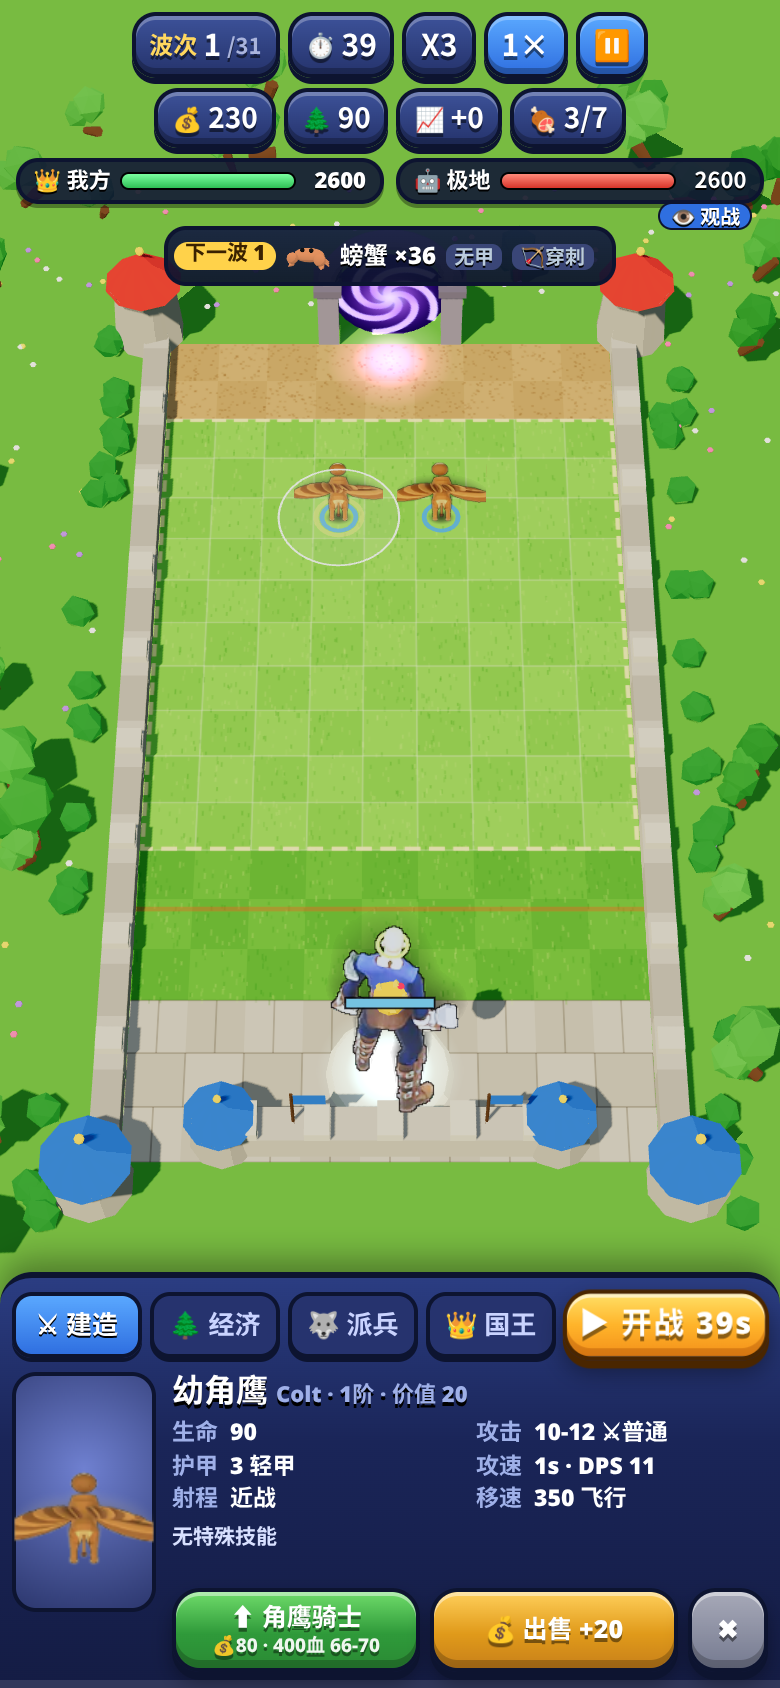
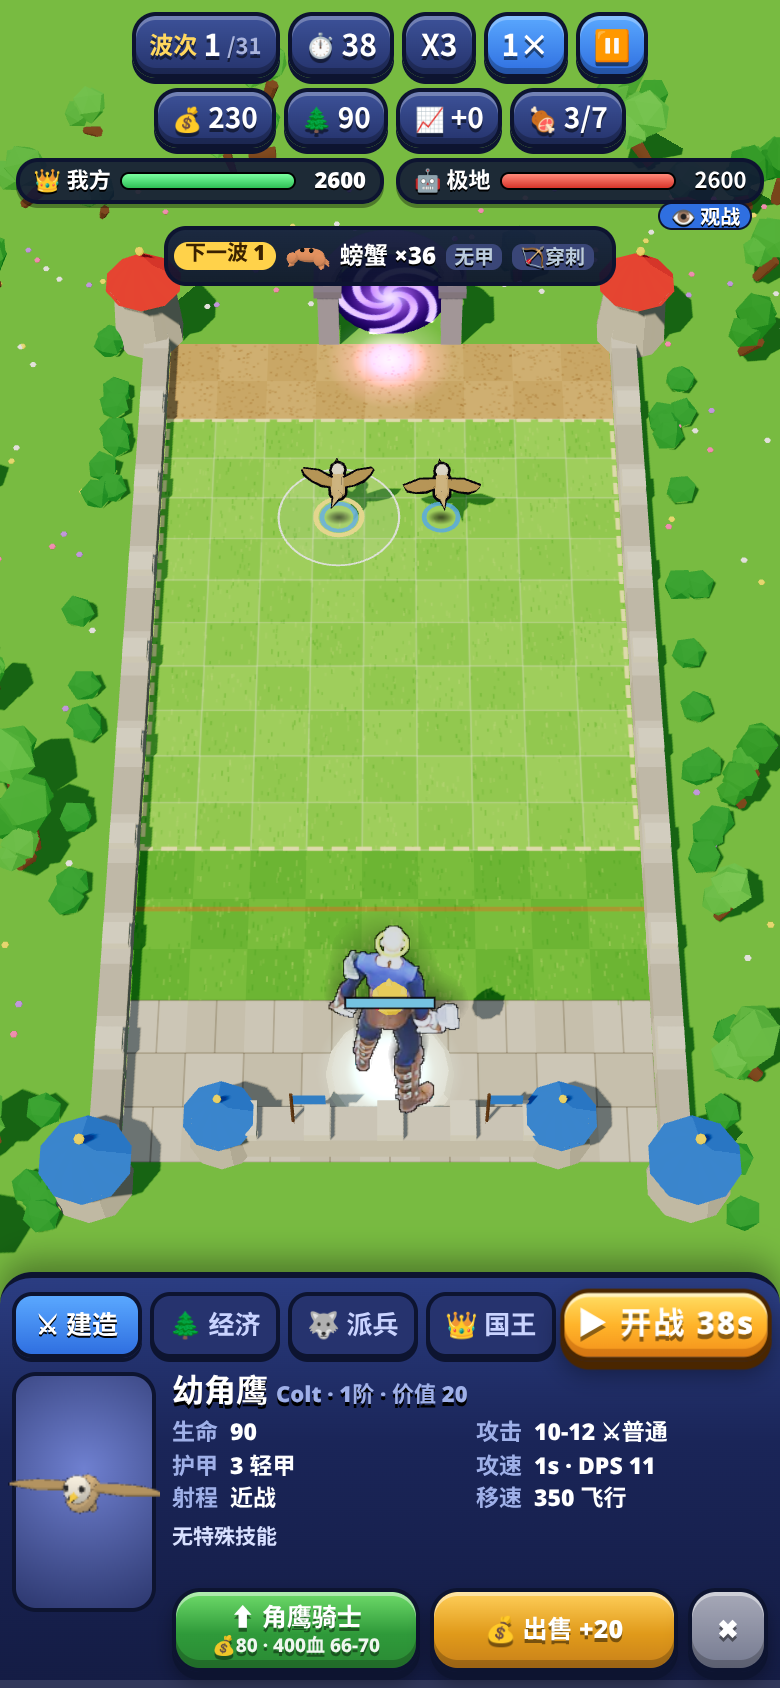
Model remake: Elf (hippogryphs, high/blood/night elves, demon-hunter prisoner, dragonhawk, druid, warden)

diff --git a/toonrecipes.js b/toonrecipes.js
@@ -59,3 +59,17 @@ R('h0BM',{k:1.05,h:1.05,bw:1.3,torso:'brute',head:'beast',headC:0xe8ecf0,helm:'h
 R('h0BL',{k:1.25,h:1.15,bw:1.45,torso:'brute',head:'beast',headC:0xc8d8e8,helm:'horns',hornC:0x5a4a3a,skin:0xc8d8e8,torsoC:0xb0c4d8,legC:0x9ab0c8,sleeve:0xb0c4d8,handC:0x9ab0c8,legs:'hoof',arms:'claw',eye:0x9affff,weapon:'staff',wood:0x6a5a4a,glow:0x9affff,pads:true,padC:0x6a5a4a,spikes:true,atk:'cast',extras:['mane:0xffffff','tail:0xb0c4d8','bones','aura:0x9ae8ff','orbit:0xc8f8ff']});
 R('h0BO',{k:0.82,plan:'flyer',skin:0x5a9ae0,skin2:0xc8e8ff,wingC:0x3a7ac8,eye:0xe0ffff,neckLen:0.6,tailLen:0.4,wingSpan:0.9,alt:0.4,atk:'bite'});
 R('h0BP',{k:1.08,plan:'flyer',skin:0x2a6ad0,skin2:0xbae4ff,wingC:0x1a4aa8,eye:0xe0ffff,crest:0xbaf0ff,crestM:'e',neckLen:0.8,tailLen:0.55,wingSpan:1.15,alt:0.38,atk:'bite',extras:['spikes:0xe0f8ff','rings:0x9ae8ff'],trail:0x9ae8ff});
+// ===================== 精灵 Elf：角鹰、高等/血/暗夜精灵、恶魔猎手 =====================
+R('h08F',{k:0.85,plan:'flyer',headType:'bird',skin:0xc8a878,skin2:0xf0e0c0,headC:0xe8e0d0,wing:'bird',wingC:0xa88a5a,beak:0xe8c040,eye:0x2a2a2a,neckLen:0.45,headS:1.25,tailLen:0.3,wingSpan:0.95,alt:0.45,atk:'dive'});
+R('h08I',{k:1.0,plan:'flyer',headType:'bird',skin:0xb89868,skin2:0xf0e0c0,headC:0xf0ece0,wing:'bird',wingC:0x8a6a4a,beak:0xe8c040,eye:0x2a2a2a,neckLen:0.45,headS:1.25,tailLen:0.32,wingSpan:1.05,alt:0.45,rider:0x5a3a8a,riderSkin:0x9a7ad8,atk:'shoot',extras:['quiver']});
+R('h08H',{k:0.88,h:0.95,torso:'default',head:'default',skin:0xf0c8a0,hair:0xf0d870,torsoC:0x5a8a4a,legC:0x6a5a3a,bootC:0x4a3020,weapon:'hammer',wood:0x8a6a3a,atk:'swing',extras:['ears']});
+R('h08L',{k:1.02,h:1.02,torso:'default',head:'default',helm:'helm',skin:0xf0c8a0,metal:0xd8a83a,torsoC:0xa82a2a,legC:0x6a1a1a,bootC:0xd8a83a,weapon:'sword',wMetal:0xf0e8d8,off:'shield',shieldC:0xb02a2a,pads:true,padC:0xd8a83a,atk:'swing',extras:['ears','tabard:0xd8a83a','cape:0xa82a2a']});
+R('h08N',{k:1.0,h:1.02,torso:'default',head:'default',helm:'hood',hoodC:0x3a2a6a,skin:0x9a7ad8,torsoC:0x4a3a7a,legC:0x2a2a4a,bootC:0x2a1a3a,weapon:'bow',wood:0x6a4a8a,glow:0xc8a0ff,atk:'shoot',extras:['ears:0x9a7ad8','quiver','cape:0x2a2a5a']});
+R('h08P',{k:1.05,plan:'quad',skin:0x2a2a3a,skin2:0x4a4a6a,headType:'cat',eye:0xd8a0ff,legLen:0.26,bodyLen:0.62,tailLen:0.45,tailW:0.8,claws:true,rider:0x6a5aa8,riderSkin:0x9a7ad8,riderHelm:0x9a9ab8,lance:0xe8e8f8,atk:'bite',extras:['aura:0xb08aff']});
+R('h08Q',{k:1.15,h:1.12,bw:1.15,torso:'default',head:'default',helm:'horns',hornC:0x2a1a2a,skin:0x6a4a9a,torsoC:0x5a3a8a,legC:0x3a2a4a,legs:'hoof',hair:0x1a1a1a,weapon:'blade',off:'blade',wMetal:0x6aff6a,glow:0x6aff6a,atk:'swing',extras:['bwings:0x2a1a3a','blindfold:0x2a8a3a','chains','tail:0x5a3a8a','aura:0x6aff6a']});
+R('h08S',{k:1.0,plan:'flyer',headType:'bird',skin:0xc83a2a,skin2:0xf0c84a,headC:0xd84a2a,wing:'bat',wingC:0xe8a03a,beak:0xf0d060,eye:0x6aff6a,crest:0xf0c84a,neckLen:0.7,tailLen:0.5,wingSpan:1.05,alt:0.4,rider:0xa82a2a,riderSkin:0xf0c8a0,atk:'shoot',extras:['rings:0xffd06a']});
+R('h08V',{k:1.05,h:1.05,torso:'robe',head:'bird',headC:0x2a2a3a,skin:0x9a7ad8,torsoC:0x3a2a5a,eye:0xb0ffff,weapon:'staff',wood:0x5a4a3a,glow:0x8aff8a,atk:'cast',extras:['wings:0x2a2a3a','ears:0x9a7ad8','aura:0x8aff8a']});
+R('h08Y',{k:1.05,h:1.05,torso:'robe',head:'default',helm:'hood',hoodC:0xb02a2a,skin:0xf0c8a0,torsoC:0xf0e8d8,legC:0xb02a2a,weapon:'wand',glow:0xff8ad8,atk:'cast',extras:['ears','tabard:0xb02a2a','orbit:0xff8ad8']});
+R('h08Z',{k:1.08,h:1.05,torso:'default',head:'default',helm:'helm',metal:0xd8a83a,skin:0xf0c8a0,torsoC:0xb02a2a,legC:0x4a1a1a,bootC:0xd8a83a,weapon:'sword',wMetal:0xff8a3a,glow:0xff7a2a,off:'orb',atk:'swing',pads:true,padC:0xd8a83a,extras:['ears','cape:0x2a6a3a','tabard:0xd8a83a']});
+R('h090',{k:1.12,h:1.08,torso:'default',head:'default',helm:'hood',hoodC:0x2a2a4a,skin:0x9a7ad8,torsoC:0x3a3a6a,legC:0x2a2a4a,bootC:0x1a1a2a,weapon:'blade',off:'blade',wMetal:0xc8d0ff,glow:0xc8d0ff,atk:'swing',extras:['ears:0x9a7ad8','cape:0x4a2a7a','orbit:0xc8d0ff']});
+R('h093',{k:1.22,h:1.12,torso:'default',head:'default',helm:'greathelm',metal:0x4a6a5a,accent:0x8aff8a,skin:0x9a7ad8,torsoC:0x4a3a6a,legC:0x2a2a3a,bootC:0x4a6a5a,weapon:'blade',wMetal:0xd8f0e0,glow:0x8aff8a,pads:true,padC:0x4a6a5a,spikes:true,atk:'swing',extras:['ears:0x9a7ad8','cape:0x2a5a3a','plate:0x4a6a5a','aura:0x8aff8a']});

diff --git a/toonkit.js b/toonkit.js
@@ -213,6 +213,8 @@ const EXTRA={
   crest:(B,o,h,d)=>{for(let i=0;i<4;i++)B.add('head','cone',[0.03*h,(0.16-i*0.02)*h,4],[0,0.2*h,-0.04*h-i*0.05*h],d.col??0x6ad8ff,{r:[-0.6-i*0.2,0,0],m:o.ghost?'n':'e'});},
   wisps:(B,o,h,d)=>{B.part('spin','torso',[0,d.tH*0.5,0]);for(let i=0;i<4;i++){const a=i*1.57;B.add('spin','sph',[0.03*h],[Math.cos(a)*0.24*h,i*0.08*h,Math.sin(a)*0.24*h],d.col??0xbaf0ff,{m:'e'});}},
   halo:(B,o,h,d)=>{B.add('head','tor',[0.12*h,0.015*h,6,20],[0,0.3*h,0],d.col??0xfff0a0,{r:[Math.PI/2,0,0],m:'e'});},
+  ears:(B,o,h,d)=>{const hs=h*(o.headS||1);for(const s of [-1,1])B.add('head','cone',[0.025*hs,0.16*hs,4],[s*0.12*hs,0.12*hs,-0.01*hs],d.col??o.headC??o.skin??0xe8b88a,{r:[0.3,0,-s*1.25]});},
+  blindfold:(B,o,h,d)=>{const hs=h*(o.headS||1);B.add('head','cyl',[0.108*hs,0.108*hs,0.035*hs,10],[0,0.12*hs,0],d.col??0x2a8a3a);},
   bones:(B,o,h,d)=>{for(let i=0;i<3;i++)B.add('torso','box',[d.tW*0.9,0.025*h,0.03*h],[0,d.tH*(0.35+i*0.18),d.tD*0.5],0xe8e0c8);},
 };
 function wings(B,o,h,d,kind){const c=d.col??o.wingC??(kind==='bat'?0x5a3a5a:kind==='energy'?0x9ad8ff:0xf0f0f0);const sp=o.wingSpan||1;

diff --git a/index.html b/index.html
@@ -10,9 +10,9 @@
 <link rel="manifest" href="manifest.webmanifest">
 <link rel="icon" type="image/png" href="icons/favicon-32.png">
 <link rel="apple-touch-icon" href="icons/apple-touch-icon.png">
-<link rel="stylesheet" href="style.css?v=5">
-<link rel="stylesheet" href="td.css?v=5">
-<link rel="stylesheet" href="lt.css?v=5">
+<link rel="stylesheet" href="style.css?v=6">
+<link rel="stylesheet" href="td.css?v=6">
+<link rel="stylesheet" href="lt.css?v=6">
 </head>
 <body class="td lt">
 <canvas id="cv"></canvas>
@@ -75,8 +75,8 @@
 </div>
 <div id="showTitle" class="hidden"></div>
 <script src="audio.js?v=1"></script>
-<script src="lt_core.js?v=5"></script>
+<script src="lt_core.js?v=6"></script>
 <script type="importmap">{"imports":{"three":"./lib/three.module.min.js","three/addons/":"./lib/addons/"}}</script>
-<script type="module" src="lt.js?v=5"></script>
+<script type="module" src="lt.js?v=6"></script>
 </body>
 </html>

diff --git a/lt.js b/lt.js
@@ -3,8 +3,8 @@ import * as THREE from 'three';
 import {SPR_UNITS,SPR_K,SPR_V} from './sprdata.js';
 import {MODELS,modelOf} from './models.js';
 import {ABZ as ABZ_} from './abil_zh.js';
-import {initTK,buildTK,animTK} from './toonkit.js?v=5';
-import {TKR} from './toonrecipes.js?v=5';
+import {initTK,buildTK,animTK} from './toonkit.js?v=6';
+import {TKR} from './toonrecipes.js?v=6';
 const LT=window.LT,S=SFX.S,$=id=>document.getElementById(id);
 const Q=location.search;const DEBUG=/[?&]debug/.test(Q);const SHOWCASE=(Q.match(/[?&]showcase=([^&]+)/)||[])[1];
 const W=LT.W,H=LT.H,W2=W/2,H2=H/2;const B=LT.BUILD;

diff --git a/data/model_audit.md b/data/model_audit.md
@@ -32,7 +32,7 @@
 | Hybrid 混血 | 6 | 1.00 | 0 | 0 |
 | Marine 海洋 | 14 | 1.43 | 0 | 0 |
 | Arctic 极地 | 12 | 2.00 | 2 | 12 |
-| Elf 精灵 | 13 | 1.85 | 2 | 0 |
+| Elf 精灵 | 13 | 1.85 | 2 | 13 |
 | Goblin 地精 | 13 | 1.15 | 0 | 0 |
 | Paladin 圣骑士 | 12 | 1.25 | 0 | 0 |
 | Orc 兽人 | 13 | 1.54 | 2 | 0 |
@@ -113,19 +113,19 @@
 
 | id | 兵种 | WC3 模型 | 旧资源 | 旧资源符合度 | 处理 |
 |---|---|---|---|---|---|
-| h08F | Colt 幼角鹰 | Hippogryph | 精灵 griffin | ✅ 基本相符 | 保留，后续统一换 ToonKit 时顺带做 |
-| h08I | Rider 角鹰骑士 | RiddenHippogryph | 精灵 royalGriffin | ⚠ 部分不符 | ToonKit 程序化重做（按 WC3 轮廓/配色） |
-| h08H | Novice 见习者 | HighElfPeasant | 精灵 woodElf | ⚠ 部分不符 | ToonKit 程序化重做（按 WC3 轮廓/配色） |
-| h08L | Crusader 十字军 | BloodElfLieutenant | 精灵 crusader | ✅ 基本相符 | 保留，后续统一换 ToonKit 时顺带做 |
-| h08N | Sentry 哨兵 | watcher | 精灵 woodElf | ❌ 严重不符 | ToonKit 程序化重做（按 WC3 轮廓/配色） |
-| h08P | Nightsaber 夜刃女猎手 | Huntress | 精灵 woodElf | ⚠ 部分不符 | ToonKit 程序化重做（按 WC3 轮廓/配色） |
-| h08Q | Prisoner 囚徒 | IllidanEvilCaged | 精灵 blackKnight | ❌ 严重不符 | ToonKit 程序化重做（按 WC3 轮廓/配色） |
-| h08S | Maverick 龙鹰浪人 | BloodElfDragonHawk | 精灵 wyvern | ⚠ 部分不符 | ToonKit 程序化重做（按 WC3 轮廓/配色） |
-| h08V | Druid 德鲁伊 | DruidoftheTalon | 精灵 woodElf | ⚠ 部分不符 | ToonKit 程序化重做（按 WC3 轮廓/配色） |
-| h08Y | Ascendant 升腾者 | Sorceress_V1 | 精灵 mage | ✅ 基本相符 | 保留，后续统一换 ToonKit 时顺带做 |
-| h08Z | Sword Mage 剑法师 | BloodElfSpellThief | 精灵 zealot | ✅ 基本相符 | 保留，后续统一换 ToonKit 时顺带做 |
-| h090 | Moon Guard 月之守卫 | assassin | 精灵 zealot | ⚠ 部分不符 | ToonKit 程序化重做（按 WC3 轮廓/配色） |
-| h093 | Warden 守望者典狱长 | herowarden | 精灵 zealot | ⚠ 部分不符 | ToonKit 程序化重做（按 WC3 轮廓/配色） |
+| h08F | Colt 幼角鹰 | Hippogryph | 精灵 griffin | ✅ 基本相符 | **已重做**：ToonKit 程序化卡通模型（flyer） |
+| h08I | Rider 角鹰骑士 | RiddenHippogryph | 精灵 royalGriffin | ⚠ 部分不符 | **已重做**：ToonKit 程序化卡通模型（flyer） |
+| h08H | Novice 见习者 | HighElfPeasant | 精灵 woodElf | ⚠ 部分不符 | **已重做**：ToonKit 程序化卡通模型（humanoid） |
+| h08L | Crusader 十字军 | BloodElfLieutenant | 精灵 crusader | ✅ 基本相符 | **已重做**：ToonKit 程序化卡通模型（humanoid） |
+| h08N | Sentry 哨兵 | watcher | 精灵 woodElf | ❌ 严重不符 | **已重做**：ToonKit 程序化卡通模型（humanoid） |
+| h08P | Nightsaber 夜刃女猎手 | Huntress | 精灵 woodElf | ⚠ 部分不符 | **已重做**：ToonKit 程序化卡通模型（quad） |
+| h08Q | Prisoner 囚徒 | IllidanEvilCaged | 精灵 blackKnight | ❌ 严重不符 | **已重做**：ToonKit 程序化卡通模型（humanoid） |
+| h08S | Maverick 龙鹰浪人 | BloodElfDragonHawk | 精灵 wyvern | ⚠ 部分不符 | **已重做**：ToonKit 程序化卡通模型（flyer） |
+| h08V | Druid 德鲁伊 | DruidoftheTalon | 精灵 woodElf | ⚠ 部分不符 | **已重做**：ToonKit 程序化卡通模型（humanoid） |
+| h08Y | Ascendant 升腾者 | Sorceress_V1 | 精灵 mage | ✅ 基本相符 | **已重做**：ToonKit 程序化卡通模型（humanoid） |
+| h08Z | Sword Mage 剑法师 | BloodElfSpellThief | 精灵 zealot | ✅ 基本相符 | **已重做**：ToonKit 程序化卡通模型（humanoid） |
+| h090 | Moon Guard 月之守卫 | assassin | 精灵 zealot | ⚠ 部分不符 | **已重做**：ToonKit 程序化卡通模型（humanoid） |
+| h093 | Warden 守望者典狱长 | herowarden | 精灵 zealot | ⚠ 部分不符 | **已重做**：ToonKit 程序化卡通模型（humanoid） |
 
 ## Demi-Human 亚人
 
